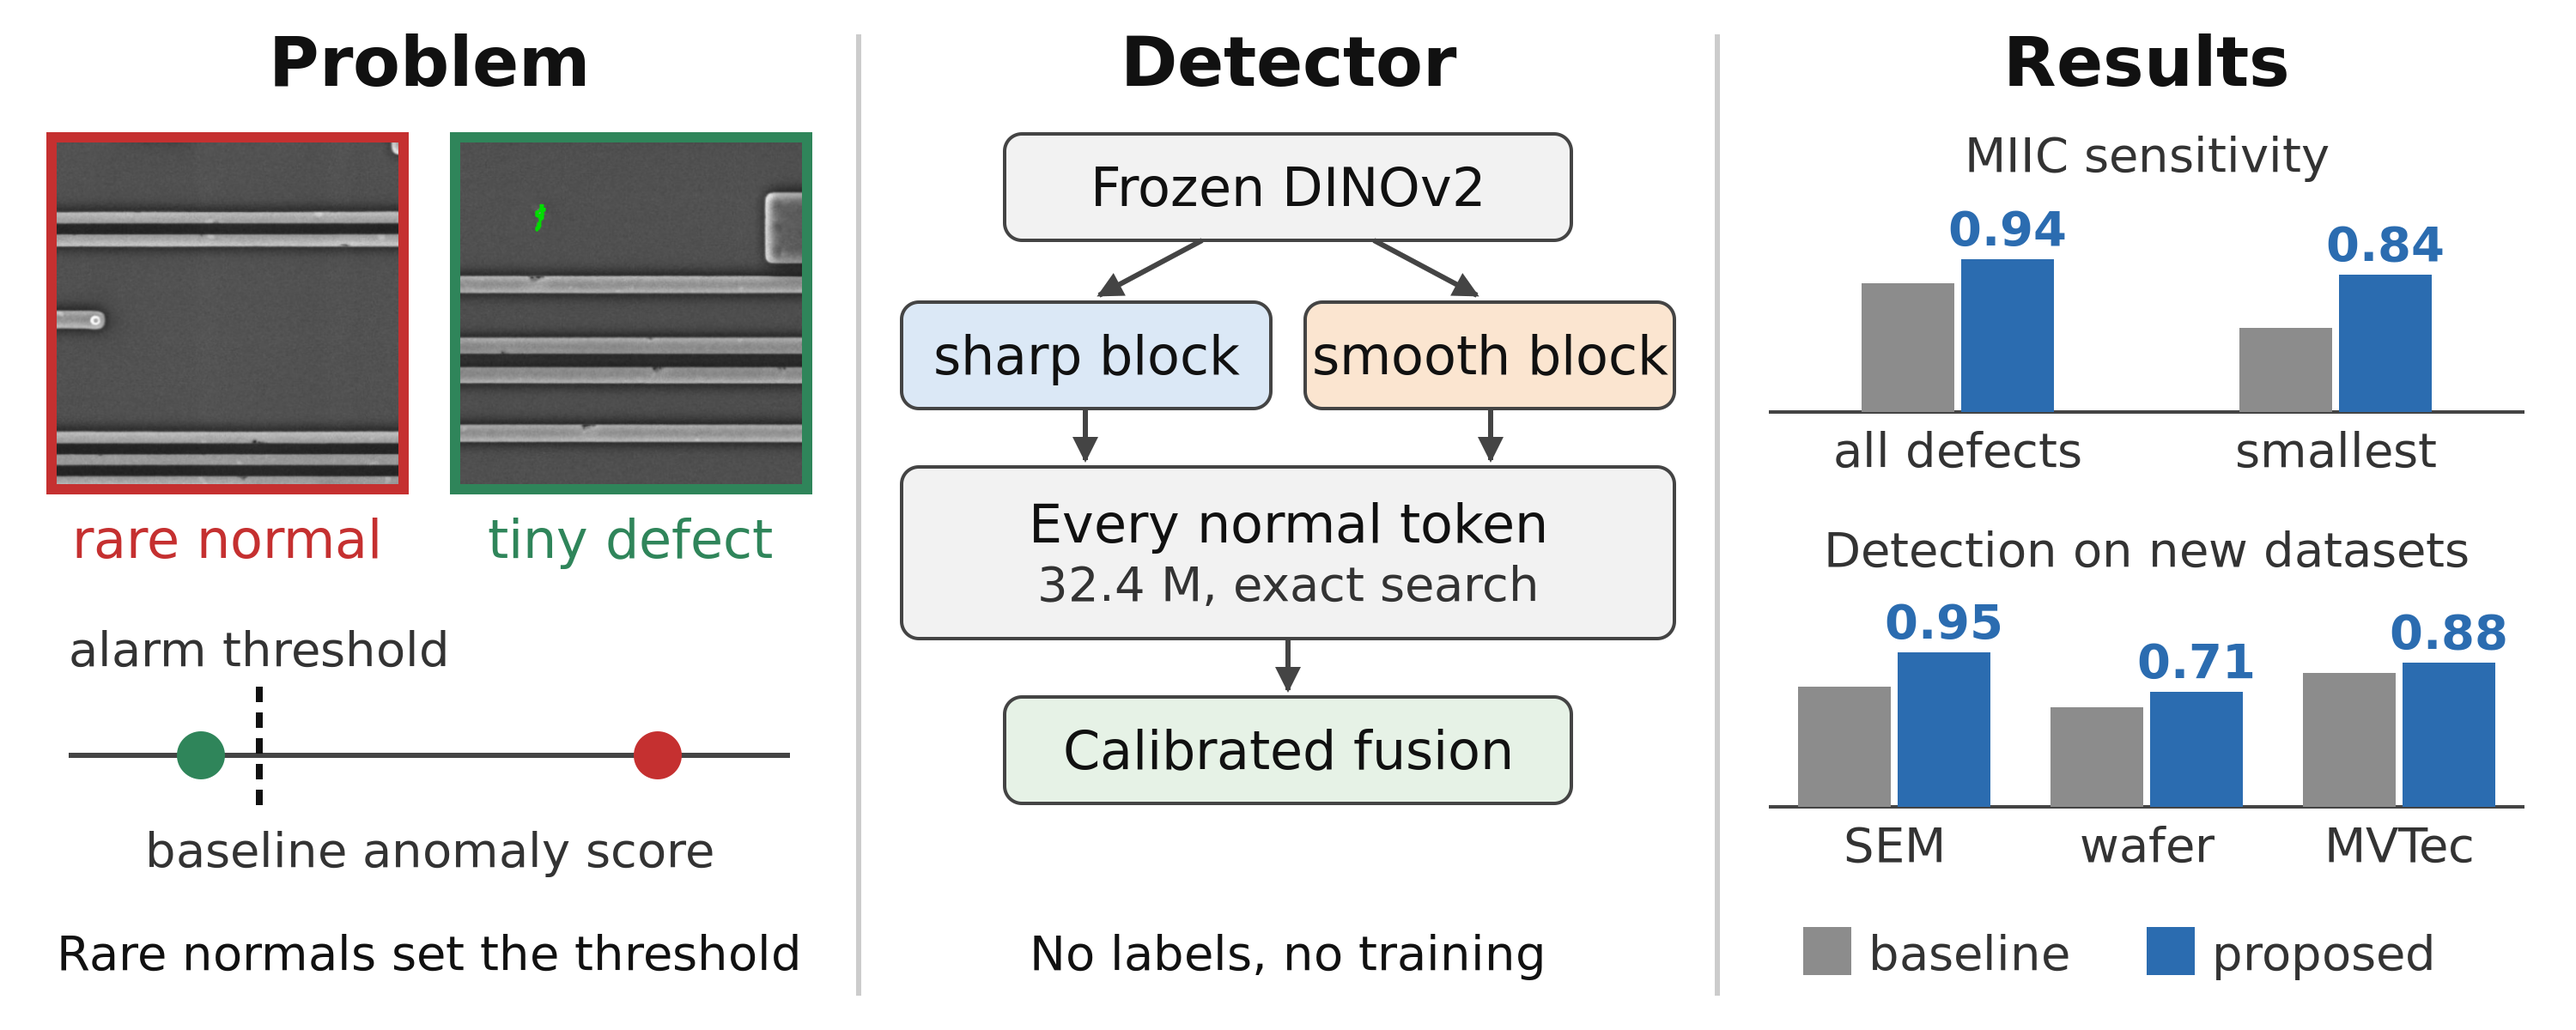
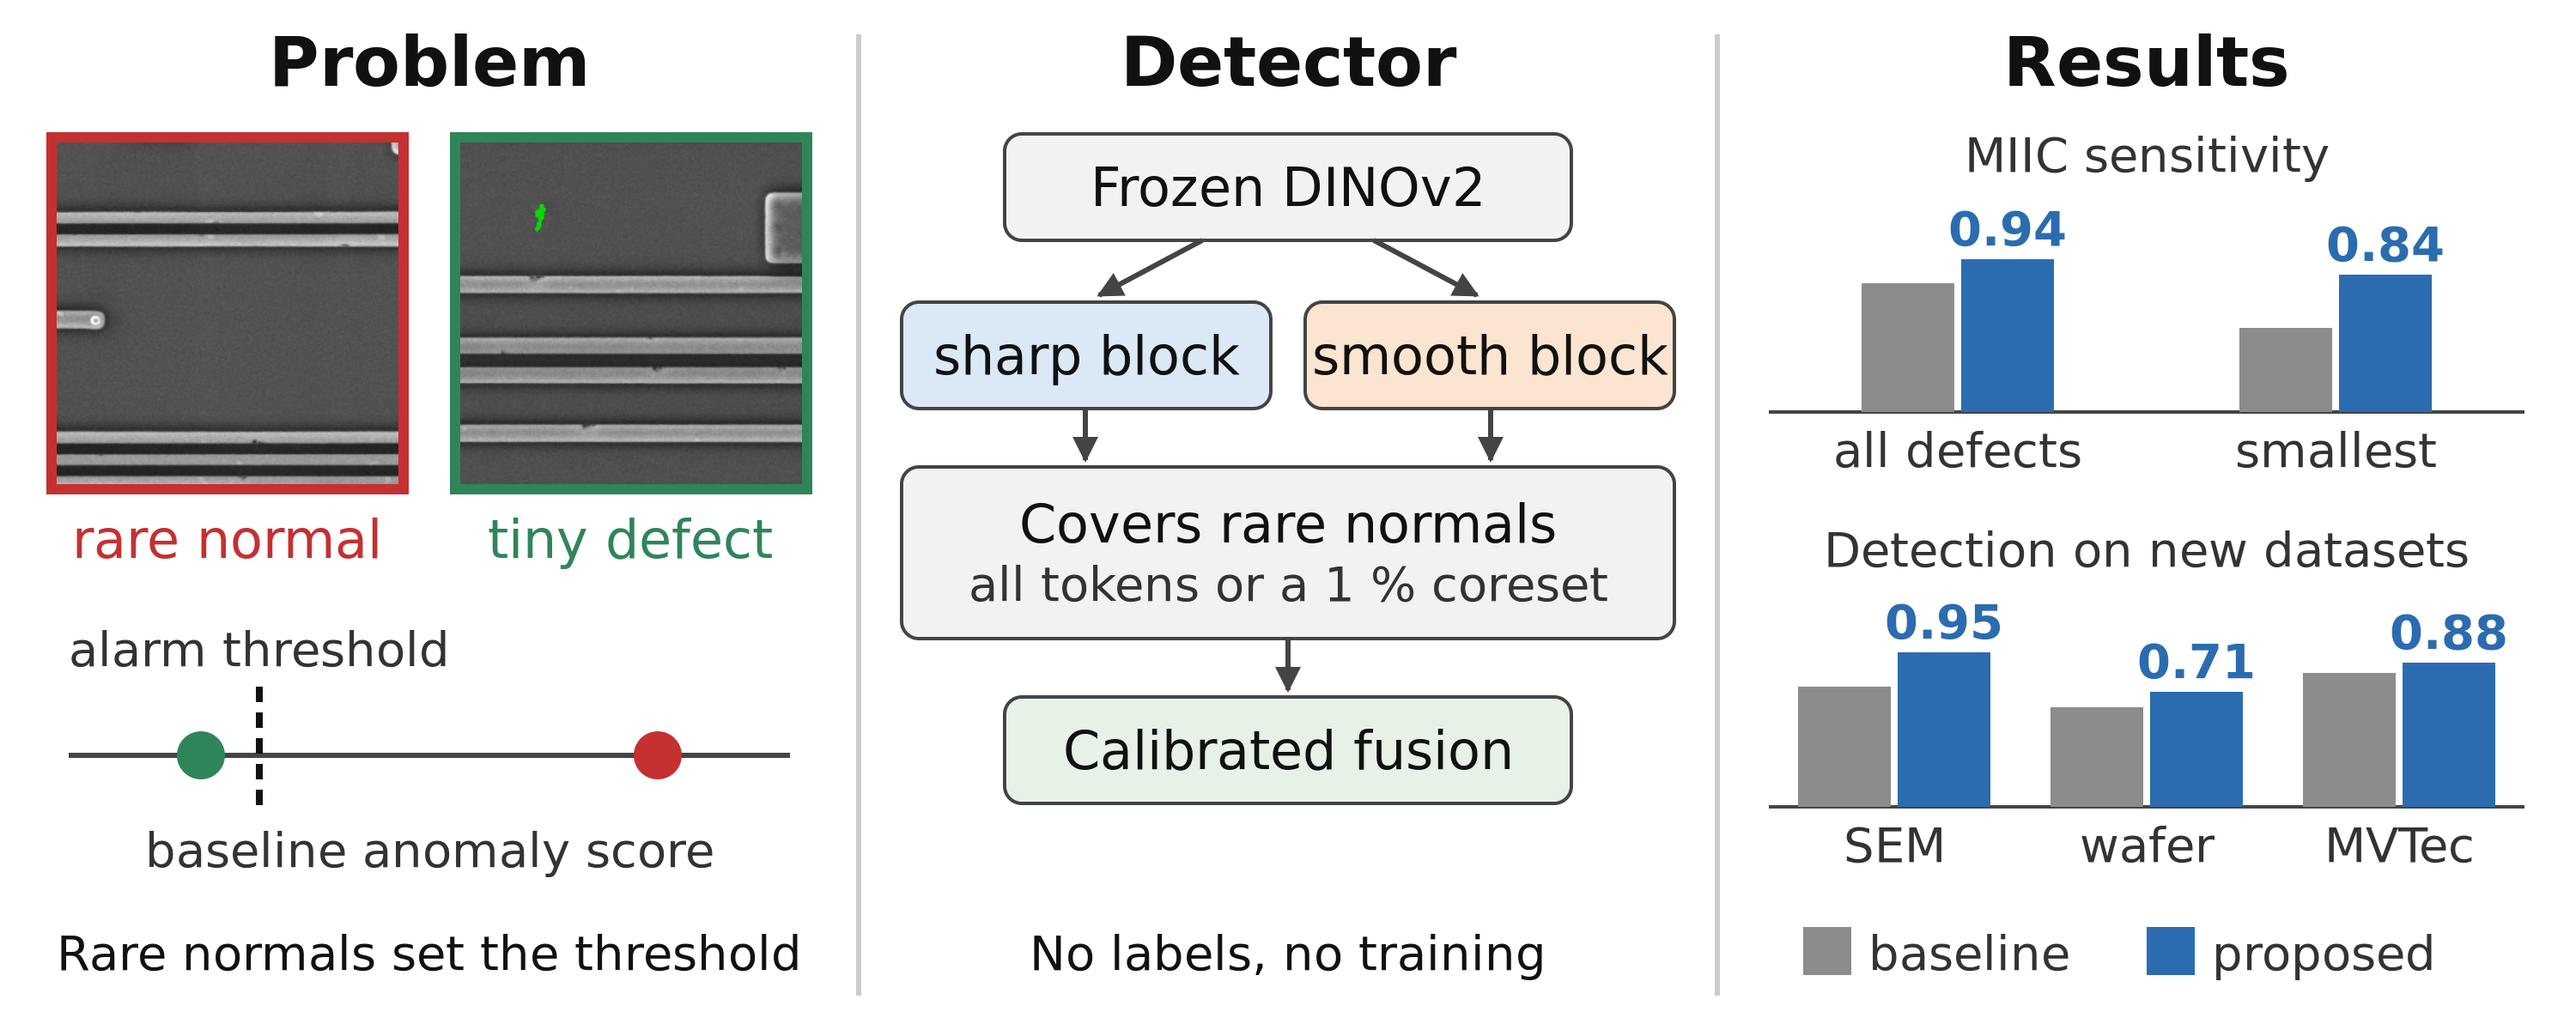
Add acquisition figures and update the graphical abstract
Learning curves on MIIC show both alarm-driven runs against the random
band, a new figure shows the first images that alarm-driven acquisition
adds, and the graphical abstract describes the memory as covering rare
normals (all tokens or a 1 % greedy coreset).

Changed region(s): [[0.372, 0.4933, 0.62, 0.5858]]

diff --git a/scripts/analysis/plot_alarm_picks.py b/scripts/analysis/plot_alarm_picks.py
@@ -1,0 +1,44 @@
+"""Figure: the first normal images that alarm-driven acquisition adds to the memory (MIIC).
+
+Reads outputs/acquire_alarm/acquired.json (scripts/run_acquire.py, initial memory 1) and shows
+the 16 highest-scoring pool images of the first round, with their fused z-scores.  The pool
+order is rebuilt exactly as in run_acquire.py (calibration split seed 42, bank_seed 0).
+
+    uv run python scripts/analysis/plot_alarm_picks.py
+"""
+import json
+import sys
+from pathlib import Path
+
+import torch
+from PIL import Image, ImageDraw, ImageFont
+
+sys.path.insert(0, str(Path(__file__).resolve().parents[1]))
+from run_patchcore import list_images  # noqa: E402
+
+R = Path('/autofs/space/crater_001/projects/micropath/semi')
+OUT = R / 'outputs/report/assets/alarm_picks.png'
+FONT = '/usr/share/fonts/dejavu/DejaVuSans.ttf'
+
+
+def main():
+    train = list_images(sorted((R / 'MIIC').glob('Anomaly_train/train_normal_*.jpg')))
+    perm = torch.randperm(len(train), generator=torch.Generator().manual_seed(42)).tolist()
+    pool = [train[j] for j in perm[200:]]
+    order = torch.randperm(len(pool), generator=torch.Generator().manual_seed(0)).tolist()
+    pool = [pool[j] for j in order]
+    r1 = next(x for x in json.load(open(R / 'outputs/acquire_alarm/acquired.json')) if x['round'] == 1)
+    n_col, n_row, t, pad, head = 8, 2, 300, 8, 34
+    fig = Image.new('RGB', (n_col * (t + pad) + pad, n_row * (t + head + pad) + pad), 'white')
+    d = ImageDraw.Draw(fig); f = ImageFont.truetype(FONT, 22)
+    for k, (i, z) in enumerate(list(zip(r1['added'], r1['scores']))[: n_col * n_row]):
+        x, y = pad + (k % n_col) * (t + pad), pad + (k // n_col) * (t + head + pad)
+        fig.paste(Image.open(pool[i]).convert('RGB').resize((t, t), Image.BILINEAR), (x, y + head))
+        d.text((x + 2, y + 4), '%d   z = %.1f' % (k + 1, z), font=f, fill='black')
+    OUT.parent.mkdir(parents=True, exist_ok=True)
+    fig.save(OUT)
+    print('saved ->', OUT, [pool[i].name for i in r1['added'][:4]])
+
+
+if __name__ == '__main__':
+    main()

diff --git a/scripts/analysis/acquire_eval.py b/scripts/analysis/acquire_eval.py
@@ -25,6 +25,7 @@ import matplotlib.pyplot as plt  # noqa: E402
 R = Path('/autofs/space/crater_001/projects/micropath/semi')
 RUNS = {'alarm': R / 'outputs/acquire_alarm', 'random': R / 'outputs/acquire_random_s0'}  # same initial memory
 RANDOM_SEEDS = [R / f'outputs/acquire_random_s{k}' for k in range(3)]
+ALARM_SEEDS = [R / 'outputs/acquire_alarm', R / 'outputs/acquire_alarm_s1']
 REPS = ['L8', 'L10_pool3']
 EXH = {'L8': R / 'outputs/bigbank_L8/raw/n23688.npz', 'L10_pool3': R / 'outputs/bigbank_L10_pool3/raw/n23688.npz'}
 BASELINE = {'sens_spec99': 0.787, 'sens_small': 0.523, 'auroc': 0.975}  # 100k-token bank, 3 seeds (paper)
@@ -98,8 +99,13 @@ def main():
     fig, axes = plt.subplots(1, 3, figsize=(11, 3.4))
     for ax, (k, lab, refk) in zip(axes, [(1, 'Sensitivity at specificity 0.99', 'sens_spec99'),
                                          (2, 'Small-defect sensitivity', 'sens_small'), (0, 'Image AUROC', 'auroc')]):
-        xs = sorted(curves['alarm'])
-        ax.plot(xs, [curves['alarm'][m][k] for m in xs], marker='o', ms=4, color='#c53030', label='alarm-driven')
+        for j, run in enumerate(ALARM_SEEDS):
+            if not sizes(run):
+                continue
+            ca = {m: metrics(fused([run / 'raw' / f'{r}_n{m}.npz' for r in REPS])) for m in sizes(run)}
+            xs = sorted(ca)
+            ax.plot(xs, [ca[m][k] for m in xs], marker='o', ms=4, color='#c53030', ls='-' if j == 0 else '--',
+                    label='alarm-driven, initial memory %d' % (j + 1))
         xr = sorted(set.intersection(*[set(c) for c in seeds])) if seeds else []
         if xr:
             v = np.array([[c[m][k] for m in xr] for c in seeds])

diff --git a/scripts/analysis/plot_graphical_abstract.py b/scripts/analysis/plot_graphical_abstract.py
@@ -98,7 +98,7 @@ a('<path class="ln" d="M700,140 L640,172"/><path class="ln" d="M800,140 L860,172
 box(525, 176, 215, 62, '#dbe8f6', 'sharp block')
 box(760, 176, 215, 62, '#fbe5d0', 'smooth block')
 a('<path class="ln" d="M632,238 L632,268"/><path class="ln" d="M868,238 L868,268"/>')
-box(525, 272, 450, 100, '#f2f2f2', 'Every normal token', '32.4 M, exact search')
+box(525, 272, 450, 100, '#f2f2f2', 'Covers rare normals', 'all tokens or a 1 % coreset')
 a('<path class="ln" d="M750,372 L750,402"/>')
 box(585, 406, 330, 62, '#e6f2e6', 'Calibrated fusion')
 a('<text class="s" x="750" y="565" style="fill:#111">No labels, no training</text>')
